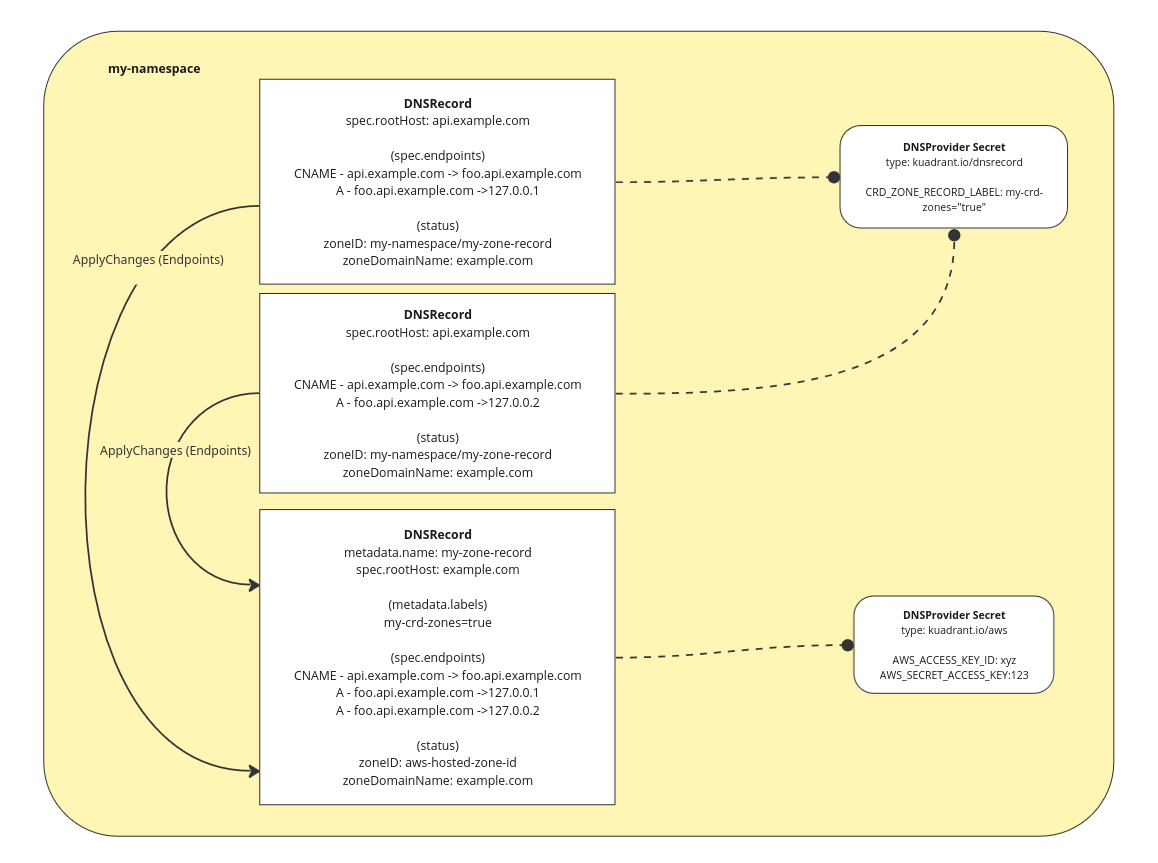
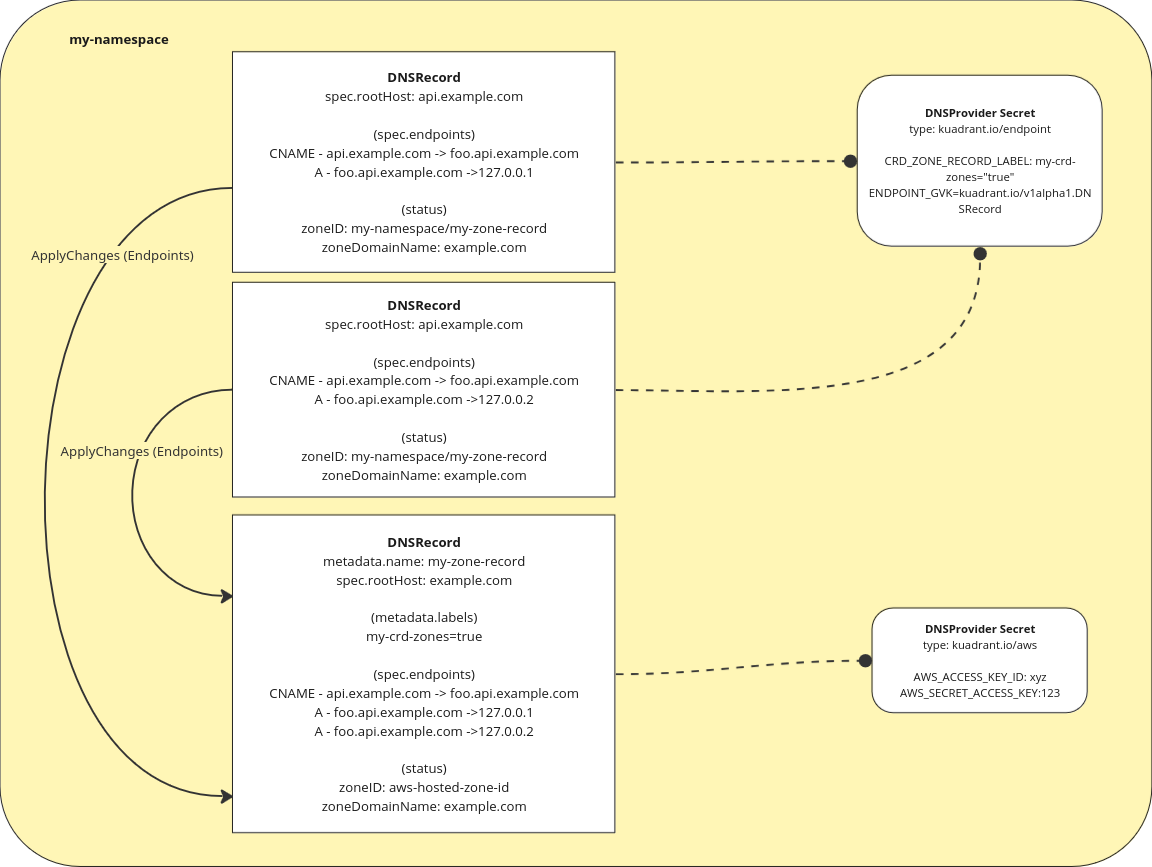
Update DNSRecord provider -> Endpoint provider

Changed region(s): [[0.0, 0.0, 1.0, 1.0], [0.6562, 0.4218, 0.75, 0.4519], [0.125, 0.6327, 0.1562, 0.6628]]

diff --git a/rfcs/0000-cluster_aware_dnsrecord_delegation.md b/rfcs/0000-cluster_aware_dnsrecord_delegation.md
@@ -150,36 +150,40 @@ In multi cluster scenarios using the dns operator in "primary" or "remote" modes
 * Update the status to specify the `providerRef` that was selected, in the case where a `providerRef` is specified in the spec this should also be reflected in the status.
 * When loading the provider after provider selection it should load it using the status `providerRef`
 
-### Add DNSRecord provider
+### Add Endpoint provider
 
-Add a new provider implementation (dnsrecord) that allows a DNSRecord resource to act as a central "zone" DNSRecord that can be updated by many other DNSRecord resources in matching namespaces.
-Endpoints from the source are injected into the target "zone" record using the same plan logic as all other providers in order to take advantage of already existing conflict resolution e.g. A vs CNAME record types for the same dns names.
+Add a new provider implementation (endpoints) that allows any resource that fulfils the contract for an [external-dns Endpoint resource](https://github.com/kubernetes-sigs/external-dns/blob/master/apis/v1alpha1/dnsendpoint.go#L36-L42) to act as a central "zone" resource that can be updated by many DNSRecord resources in matching namespaces.
+Endpoints from the source are injected into the target "zone" resource endpoints slice using the same plan logic as all other providers in order to take advantage of already existing conflict resolution e.g. A vs CNAME record types for the same dns names.
 
 ![img.png](./0000-cluster-aware-dnsrecord-delegation-assets/dnsrecord-provider.png)
 
 #### Changes required
 
 * Update the provider factory constructor logic to allow the kubeclient to optionally be passed to providers
-* Add a new provider called "dnsrecord" that implements the Provider interface 
-  * `provider.Records()` should be implemented to list all DNSRecords in the current namespace that match a given label selector (default: kuadrant.io/crd-provider-zone-record="true").
+* Add a new provider called "endpoints" that implements the Provider interface
+  * Configuration should allow a GVK to be specified which determines the CRD resources that should be considered zones, default to `kuadrant.io/v1alpha1.DNSRecord`
+  * `provider.Records()` should be implemented to list all endpoint resources in the current namespace that match a given label selector (default: kuadrant.io/crd-provider-zone-record="true").
     * The label selector should be configurable via data contained in the provider secret (e.g. CRD_ZONE_RECORD_LABEL=my-own-label="my-expected-label-value")
-    * The label selector should match exactly allowing it to be used in different scenarios where we might want a more specific match e.g. kuadrant.io/primary-authoritative-zone-record="api.example.com"  
-  * `provider.DNSZones()` should return all DNSRecords with the configured label selector, transformed into `provider.DNSZone` resources
-    * DNSZone.ID = DNSRecord.metadata.name
-    * DNSZone.DNSName = DNSRecord.spec.rootHost
-  * `provider.ApplyChanges()` should update the target DNSRecord resource using the given changes by modifying the DNSRecord.spec.endpoints slice by applying the creates/updates/deletes and saving the changes. 
-    * The correct target DNSRecord should be located using the ZoneID that is already passed along by the controller in config.ZoneIDFilter.ZoneIDs[0]
+    * The GVK of the endpoint resources to target should be configurable via data contained in the provider secret (e.g. ENDPOINT_GVK=kuadrant.io/v1alpha1.DNSRecord)
+    * The label selector should match exactly allowing it to be used in different scenarios where we might want a more specific match e.g. kuadrant.io/primary-authoritative-zone-record="api.example.com"
+  *  `provider.DNSZones()` should return all endpoint resources with the configured label selector, transformed into `provider.DNSZone` resources
+    * DNSZone.ID = <endpoint resource>.metadata.name
+    * DNSZone.DNSName = <endpoint resource>.spec.rootHost
+  * `provider.ApplyChanges()` should update the target endpoint resource using the given changes by modifying the `spec.endpoints` slice by applying the creates/updates/deletes and saving the changes.
+    * The correct target DNSRecord should be located using the ZoneID that is already passed along by the controller in `config.ZoneIDFilter.ZoneIDs[0]`
+    * When applying updates we should make sure that the expected previous value matches the current value in the record on cluster to try and avoid (https://github.com/Kuadrant/dns-operator/issues/181)
 
-**Example** CRD Provider secret with optional label selector
+**Example** CRD Provider secret with optional label selector and GVK
 ```yaml
 apiVersion: v1
 kind: Secret
 data:
   CRD_ZONE_RECORD_LABEL: kuadrant.io/primary-authoritative-zone-record
+  ENDPOINT_GVK: kuadrant.io/v1alpha1.DNSRecord
 metadata:
-  name: my-provider-crd-secret
+  name: my-provider-endpoint-secret
   namespace: my-namespace
-type: kuadrant.io/crd
+type: kuadrant.io/endpoint
 ```
 
 ### Make controller cluster aware
